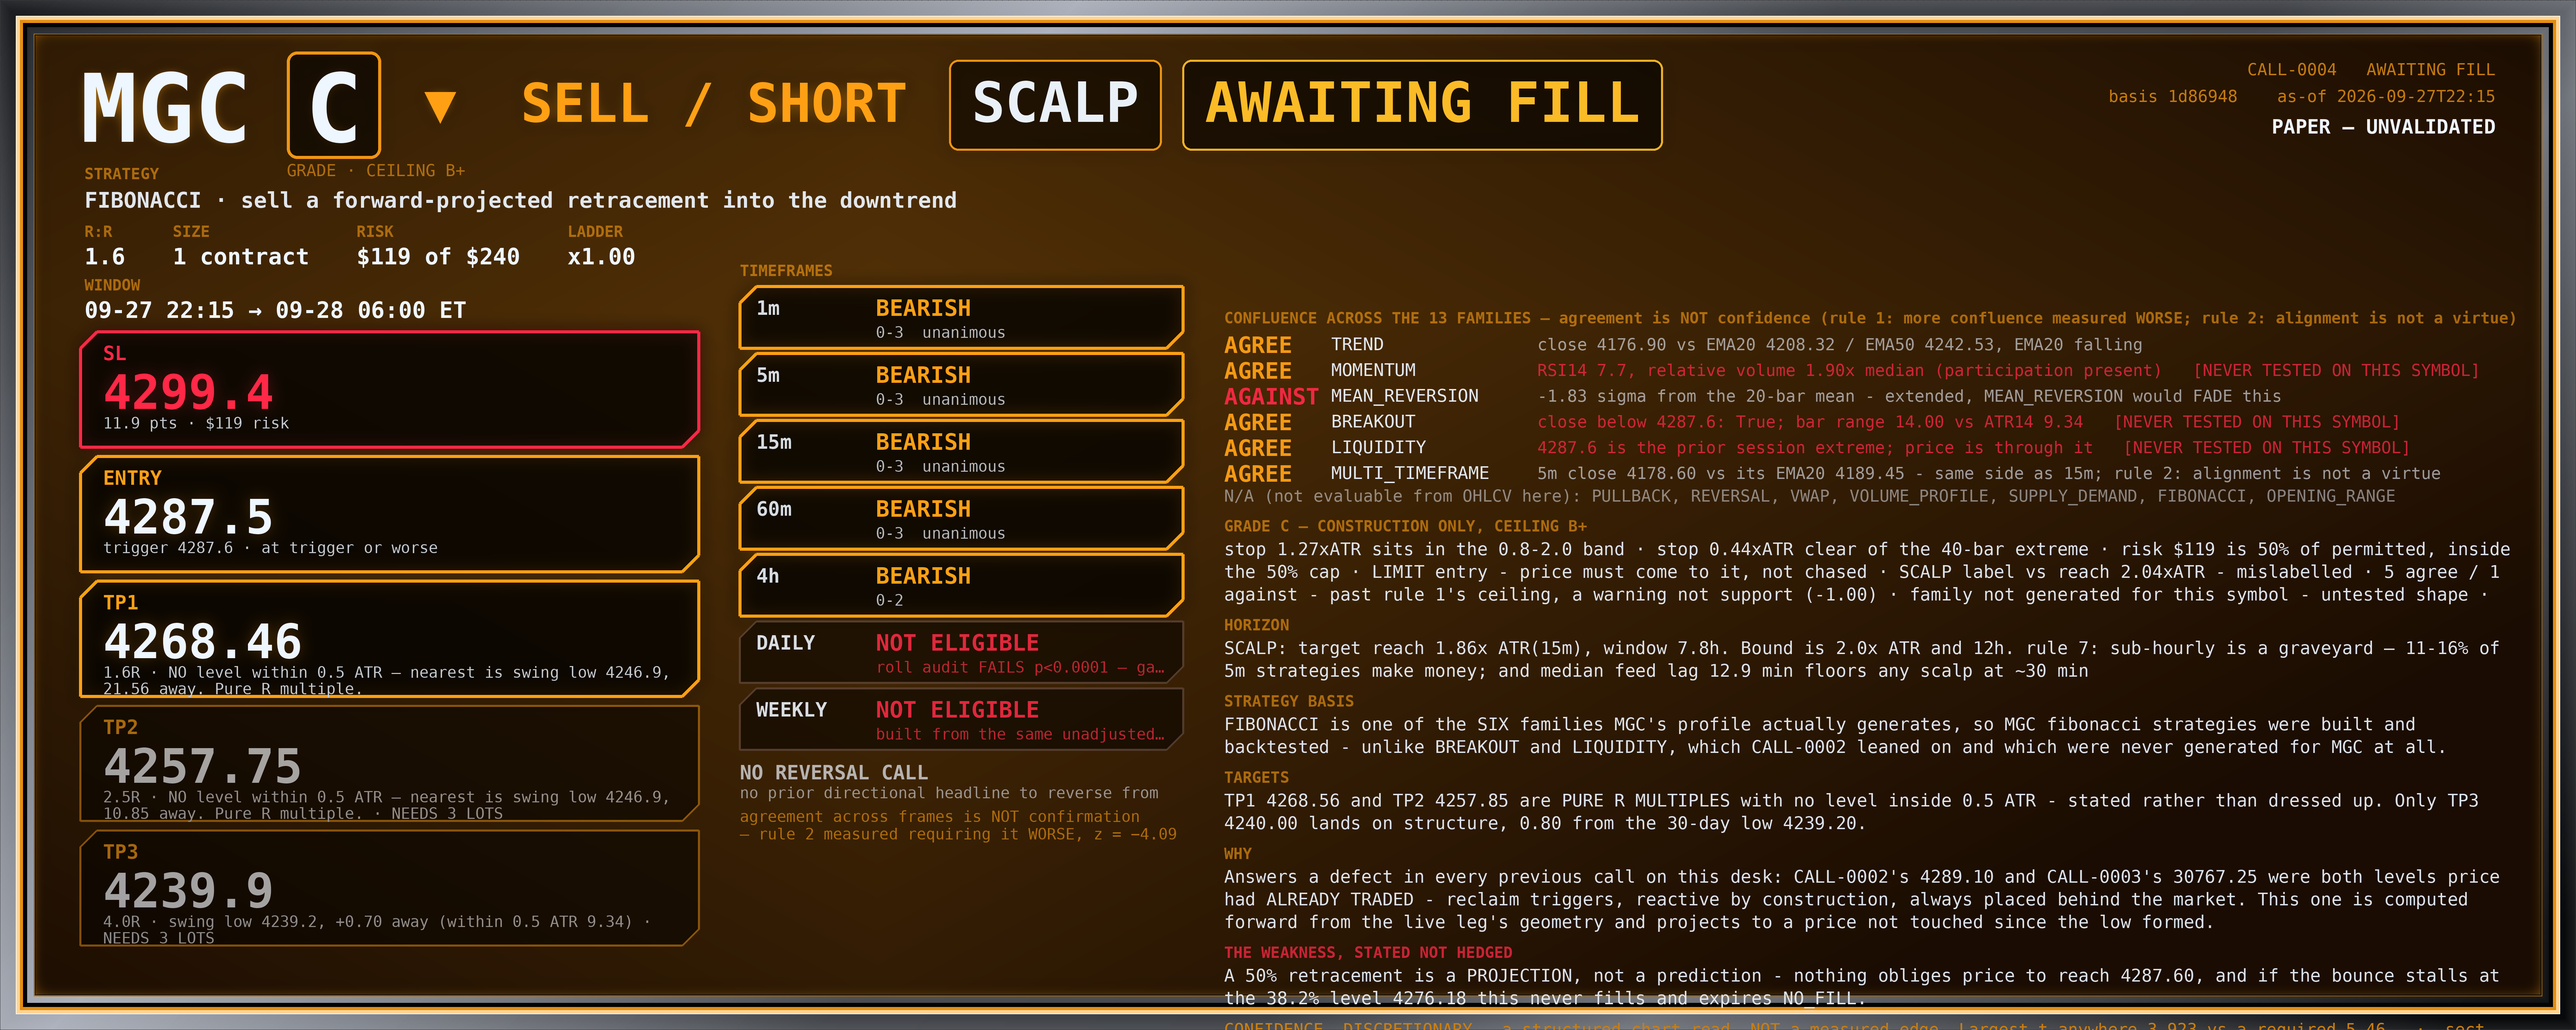
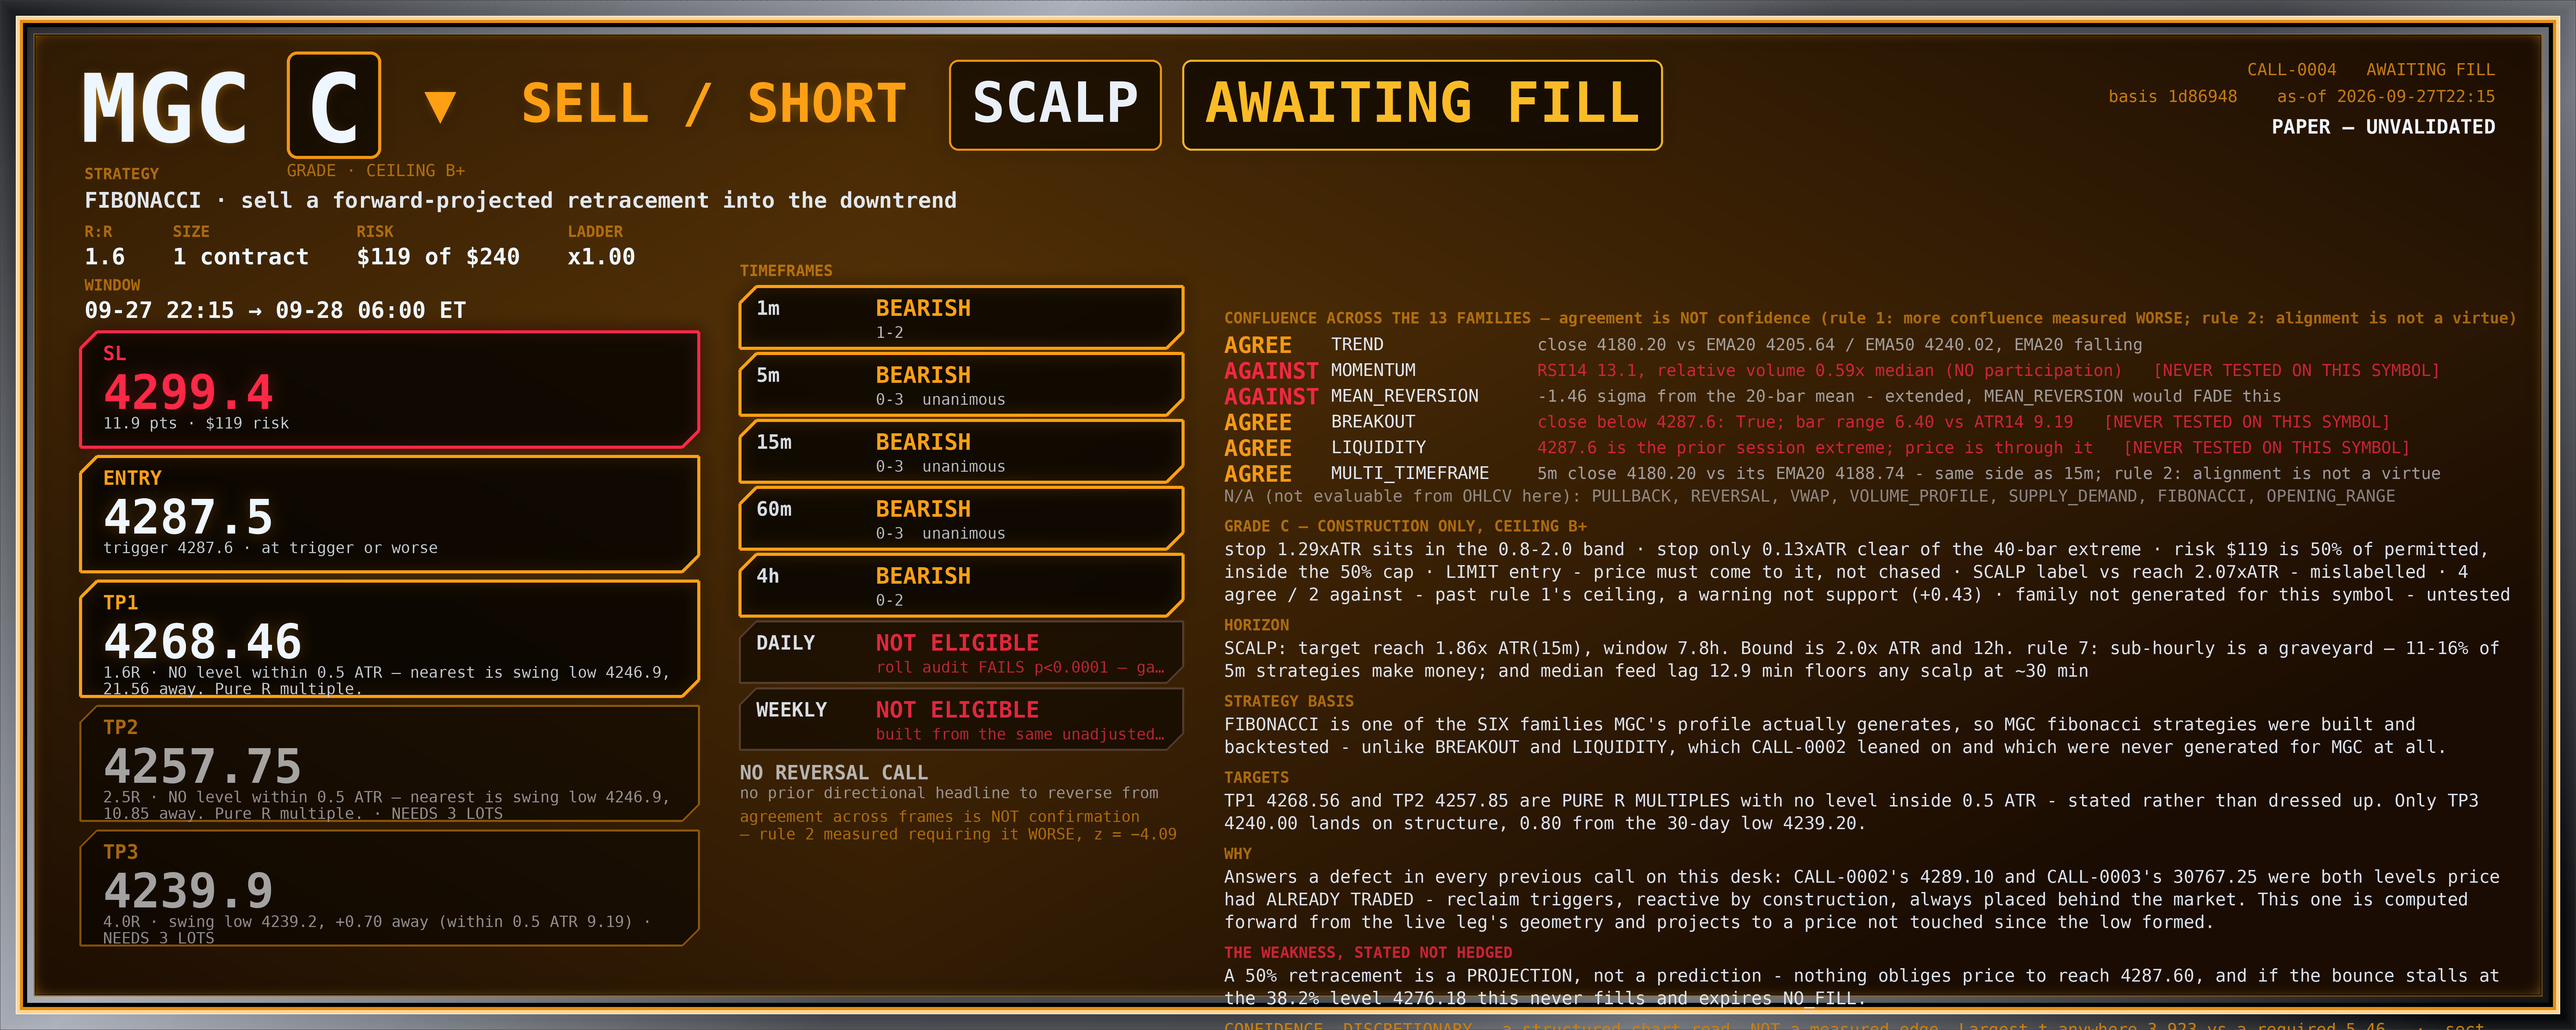
CALL desk: N52 - declining a new MGC short because it IS CALL-0004 with the trigger moved
Worked the plan up fully before rejecting it: MGC SHORT 4190.00, stop 4197.00
(7.00 pts = 0.75x ATR 9.34), risk $70 = 29.2% of permitted, TP1/TP2/TP3 at
1.5/2.5/3.5R. It sizes, it is above the market so it is a bounce rather than a
chase, and it clears rule 4.

Rejected because it is CALL-0004's thesis - "sell a forward-projected
retracement into the MGC downtrend" - with the trigger relocated from 4287.60
to where price actually went. That is N8's prohibition on editing a plan after
watching price, and a fresh call_id does not launder it. Separately it would
put 78.6% of permitted into one direction on one symbol. The available
counter-argument, that CALL-0004 cannot fill so its risk is theoretical, is
recorded and deliberately not used.

The idea is legitimate, just not while an unresolved instance is on the book.
CALL-0004 expires on the 06:00 ET bar; after it resolves, a fresh plan from the
then-current geometry is properly pre-registered. So this decline, unlike N44
and N51, rests on pre-registration integrity and has an expiry time.

Also recorded: eight self-correction findings tonight and zero filled trades is
not by itself a sign of rigour.

N53: MGC's 40-bar range high fell 4303.50 -> 4300.60 with no new high printed -
the bar carrying it rolled out of the window. A trailing-window location reading
has three ways to move while price does nothing: low revises, high rolls off,
forming bar re-prints.
[…]

diff --git a/workspace/paper/CALL/NOTES.md b/workspace/paper/CALL/NOTES.md
@@ -2768,3 +2768,81 @@ the honest test of this rule is whether it survives the move going the way the c
 
 MNQ is at maximum internal disagreement: 1m BULL 3-0 unanimous and 5m BULL 2-0 against 15m and
 60m both BEAR 0-3 unanimous, with daily BULL 3-0. That is a no-trade configuration on its face.
+
+## N52 — the MGC short I wanted to pre-register at 04:46 is CALL-0004 with the trigger moved to where price went, and a new call_id does not launder that
+
+I worked one up properly before rejecting it, so the arithmetic is on record rather than the
+conclusion alone. MGC has broken structure to new lows and the obvious plan is to sell a bounce
+back into the broken shelf rather than sell at the low:
+
+    MGC SHORT   entry 4190.00 (prior swing high 4193.10 / broken shelf 4182.70 zone)
+                stop  4197.00  = 7.00 pts = 0.75x ATR14(15m) 9.34, clear of rule 4's 0.5x floor
+                risk  7.00 x $10 x 1 = $70.00 = 29.2% of the $240 permitted, inside the 50% cap
+                TP1 1.5R 4179.50 · TP2 2.5R 4172.50 · TP3 3.5R 4165.50
+
+It sizes. It is above the market, so it is a forward bounce and not a chased level — the thing
+the owner specifically asked for. It clears rule 4 and the sizing cap. And I am **not** writing
+it, for a reason I did not see until I had it on paper:
+
+**This is CALL-0004.** CALL-0004's thesis, in its own words, is "sell a forward-projected
+retracement into the downtrend" on MGC, triggered at 4287.60. The plan above is the same thesis,
+same symbol, same side, same shape, with the trigger relocated from 4287.60 to 4190.00 — which is
+to say, relocated to where price actually went after I wrote the first one. That is precisely what
+**N8** forbids: editing a pre-registered plan after watching price. Opening a new `call_id` does
+not make it a new idea; it makes it the same idea with its pre-registration stripped off. The whole
+value of writing a trigger down before the price exists is destroyed if a miss can be re-issued
+nearer the market.
+
+It also fails on correlated exposure, independently. CALL-0004 already commits $119, 49.6% of the
+$240 permitted. Adding $70 of MGC short would put **78.6% of permitted into one direction on one
+symbol**. The honest counter-argument is that CALL-0004 cannot realistically fill — 4287.60 is
+107.40 points above price with ~74 minutes to its 06:00 expiry, about 11.5x ATR in five bars — so
+joint fill is negligible and the aggregate is theoretical. I note that the counter-argument is
+available and I am declining to use it, because "the plan I already have can't fill, so its risk
+doesn't count" is the reasoning that lets a book quietly double up.
+
+### What this actually means, and the timeline
+
+The MGC retracement short is a legitimate idea. It is not legitimate *right now* because there is
+an unresolved instance of it on the book. CALL-0004 expires on the **06:00 ET bar** — bar-based, so
+the journal entry will land ~13 minutes behind the clock (N32), and on current distance it will
+resolve `EXPIRED_UNTRIGGERED` / NO_FILL at 0.0R. Once it has resolved, a fresh MGC retracement plan
+computed from the geometry as it stands then is properly pre-registered and carries no N8 problem,
+because the previous instance will have a recorded outcome rather than an open trigger.
+
+So: no new call this check, and the reason is not the one I gave for the last three. N44 and N51
+declined on chasing and on rule 2. This declines on **pre-registration integrity**, which is a
+stronger objection, and it comes with a time at which it stops applying.
+
+Third consecutive note whose subject is my own reasoning rather than the market. Worth saying
+plainly: the desk has now produced eight infrastructure and self-correction findings tonight and
+zero filled trades. That ratio is not a sign of rigour by itself — it is also what a desk looks
+like when it is more comfortable auditing itself than committing. The 06:00 resolution is the point
+at which that excuse expires too.
+
+## N53 — the 40-bar range HIGH migrated as well, so both ends of the location denominator move
+
+MGC's 40-bar range read `[4175.00, 4303.50]` at 04:41 and `[4175.00, 4300.60]` at 04:46. The high
+fell 2.90 with no new high printed: the bar carrying 4303.50 simply rolled out of the trailing
+40-bar window. Location consequently read 1.5% then and 4.1% now, and the close moved from 4176.90
+(settled `04:15`) to 4180.20 (forming `04:30`).
+
+N46 caught the floor migrating; this catches the ceiling migrating by expiry rather than by
+revision. A trailing-window location reading therefore has **three** independent ways to move
+while price does nothing: the low revises down, the high rolls off the back, and the forming bar
+re-prints. Quoting the endpoints (the N46 remedy) covers all three, which is the right reason to
+keep doing it.
+
+## N54 — MNQ's entire fast stack flipped from unanimous bull to bear in five minutes
+
+04:41: MNQ 1m BULLISH 3-0 unanimous, 5m BULLISH 2-0.
+04:46: MNQ 1m BEARISH 0-2, 5m BEARISH 0-2.
+
+A complete reversal of both fast frames, including a unanimous one, inside a single 5-minute slot.
+MGC's 1m did the reverse in the same window, 0-3 unanimous -> 1-2. Meanwhile 15m and 60m on both
+symbols are unchanged and have been unanimous bearish for the entire session.
+
+Running count of MNQ 5m states tonight: BEAR 0-1, BULL 2-0, CONFLICTED 1-1, BULL 2-0, BEAR 0-2 —
+five states in twenty-one minutes. "Unanimous" on a fast frame means unanimous for one bar, and I
+should stop treating the word as carrying weight there. Both symbols are now bearish on all four of
+1m/5m/15m/60m, and after tonight that fact is worth roughly nothing on its own.
